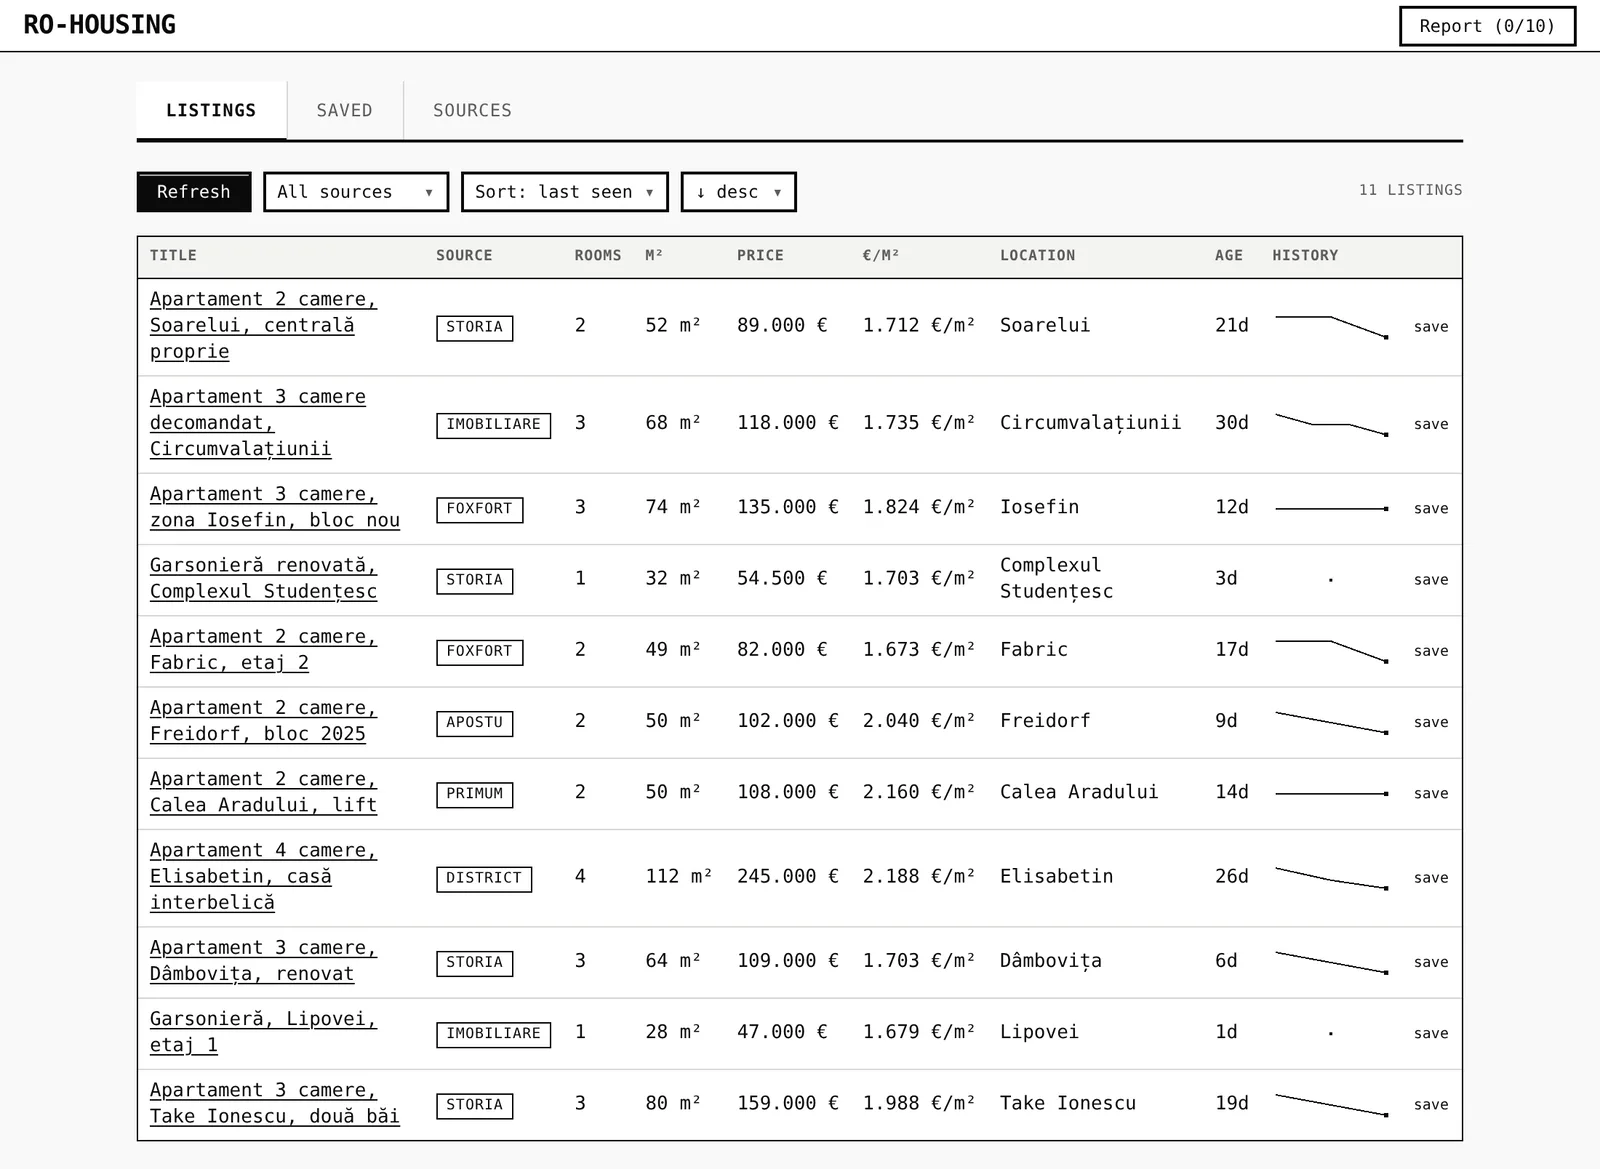
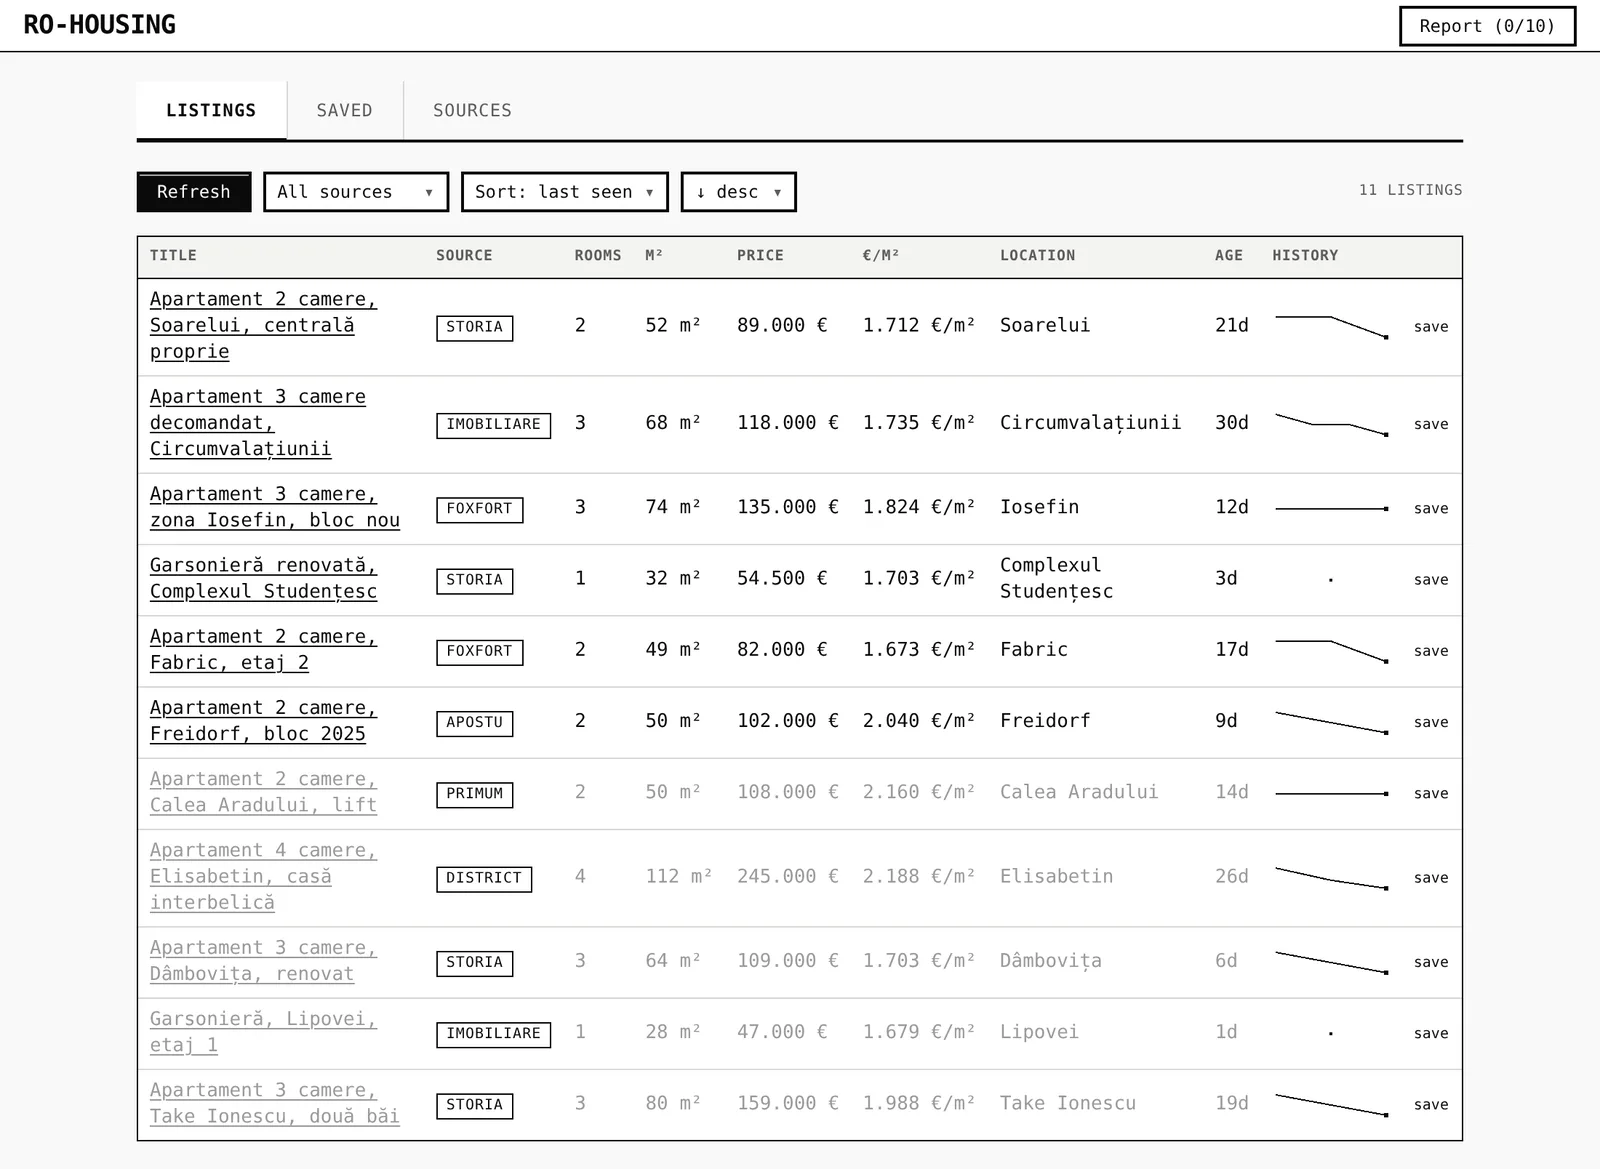
docs: retake the desktop README images; name the + TVA mark
The 2026-10-27 fixes changed the Listings, Saved and Sources screens.
The three desktop images come from the demo seed again; shots.md and
corpus/log.md say how and why the phone shots stay.

Claude-Session: https://claude.ai/code/session_01RnCo6HQvWHip2MdUz77hcT

diff --git a/docs/images/shots.md b/docs/images/shots.md
@@ -6,9 +6,9 @@ All of them come from a throwaway clone of the repo with both dev servers runnin
 
 | File | Shows | How to reach that state | Viewport | Taken |
 |---|---|---|---|---|
-| hero.webp | Listings with eleven listings and their price lines | Fresh seed, open the app | 1100×804 @2x, scaled to 1600 px wide | 2026-10-16 |
-| saved.webp | The Saved tab sorted by €/m² | Saved, empty the link box, Sort: €/m², low first; cropped to the tab with a 16 px margin | 1100×900 @2x, scaled to 1600 px | 2026-10-16 |
-| sources.webp | Sources, with imobiliare.ro failed | Sources; cropped to the tab with a 16 px margin | 1100×900 @2x, scaled to 1600 px | 2026-10-16 |
+| hero.webp | Listings with eleven listings and their price lines | Fresh seed, open the app | 1100×804 @2x, scaled to 1600 px wide | 2026-10-31 |
+| saved.webp | The Saved tab sorted by €/m² | Saved, empty the link box, Sort: €/m², low first; cropped to the tab with a 16 px margin | 1100×900 @2x, scaled to 1600 px | 2026-10-31 |
+| sources.webp | Sources, with imobiliare.ro failed | Sources; cropped to the tab with a 16 px margin | 1100×900 @2x, scaled to 1600 px | 2026-10-31 |
 | draft-phone.webp | A draft with one field edited | Saved, with `/api/saved/scrape` staged as in the next section; paste `https://www.exemplu.ro/oferta/apartament-2-camere-girocului`, Fetch details, set the price to `97.000`, type the note `Asked for 97.000 on the phone. Visit on Tuesday.`; cropped to the panel with a 12 px margin | 390×1200 @3x, scaled to 780 px | 2026-10-16 |
 | blocked-phone.webp | The bot-check notice and the empty form | Saved, no mock; paste `https://www.imobiliare.ro/oferta/apartament-de-vanzare-2-camere-timisoara-exemplu`, whose path is made up, and Fetch details; cropped from the panel's top to the price row | 390×1200 @3x, scaled to 780 px | 2026-10-16 |
 
@@ -39,6 +39,6 @@ The bot-check image is not staged: the clone's API really asked imobiliare.ro, g
 
 ## Capture method
 
-- Browser: `agent-browser --session rohousing-readme`. `set viewport 1100 804 2` for the hero and `1100 900 2` for the other desktop shots. Use `set viewport 390 1200 3` for the narrow ones. Stage the draft with `network route "**/api/saved/scrape" --body "<the JSON above>"` and remove it with `network unroute`. Move the pointer to a corner with `mouse move 1 1`, so no button shows its hover state.
+- Browser: on 2026-10-31 the three desktop shots were retaken with Playwright and Chrome at the same viewports, from a scratch clone whose `npm install` could not download Playwright's Chromium (the API still started; only scraping needs it). Earlier: `agent-browser --session rohousing-readme`. `set viewport 1100 804 2` for the hero and `1100 900 2` for the other desktop shots. Use `set viewport 390 1200 3` for the narrow ones. Stage the draft with `network route "**/api/saved/scrape" --body "<the JSON above>"` and remove it with `network unroute`. Move the pointer to a corner with `mouse move 1 1`, so no button shows its hover state.
 - Crops: `eval` returns the panel's box from `getBoundingClientRect()` on `[role=tabpanel]:not([hidden]) > div` or its first child. Take a viewport screenshot and crop it with ffmpeg's `-vf "crop=W:H:X:Y"`, each value multiplied by the pixel ratio, 2 or 3.
 - Stills: PNG to WebP with `ffmpeg -i in.png -vf scale=1600:-1:flags=lanczos -c:v libwebp -quality 82 out.webp`, with 780 instead of 1600 for the narrow ones.

diff --git a/corpus/log.md b/corpus/log.md
@@ -137,3 +137,7 @@ a provisional recommendation: no Firecrawl; two extractor rules and an "OK, 0" w
 owner to decide on imobiliare's RSS feed; a model only as an opt-in button. A laptop restart
 cleared `/tmp` midway, losing `llama3.2:3b`'s first answers. Still missing: `llama3.2:3b` and
 `qwen2.5:7b` scores. The brief stays in todo with a note.
+
+## [2026-10-31] maintenance | README images retaken; the README names the "+ TVA" mark
+
+A README refresh pass with the readme-docs standard. The 2026-10-27 fixes changed the screens the desktop images show, so `hero.webp`, `saved.webp` and `sources.webp` were taken again from `docs/images/demo-seed.mjs` in a scratch clone. The two phone shots stay: one needs the staged scrape mock and the other a live bot check from imobiliare.ro, which the workspace cannot reach. The README now says a price quoted before VAT is marked "+ TVA". Checked: `npm install` and `npm run dev` in `api/` and `web/`; the API's install could not download Playwright's Chromium here (`cdn.playwright.dev` is blocked), which only scraping needs, and the API and the web app both started.

diff --git a/README.md b/README.md
@@ -10,7 +10,7 @@ A house-hunting tool for one person looking to buy a flat in Timișoara. It pull
 
 ## What it does
 
-- Collects listings from up to nine sites into one table you can sort by price, m² or date and filter by site, with €/m² worked out for every row.
+- Collects listings from up to nine sites into one table you can sort by price, m² or date and filter by site, with €/m² worked out for every row. A price quoted before VAT ("+ TVA") is marked as such, so €/m² compares like with like.
 - Keeps each listing's price history, one point per Refresh, drawn as a small line beside it.
 - Saves one listing from its link. The app reads price, rooms, m², floor, year built, area, partitioning and photo from the page into a form. Each field says "from page", "edited" or "not on page", and nothing is stored until you press Save. When a site shows a bot check instead of the ad, the form opens empty with the link kept.
 - Lines up the saved flats with your notes, sorted by price, €/m², m² or year built. You can edit any of them later. Deleting one takes two clicks.
